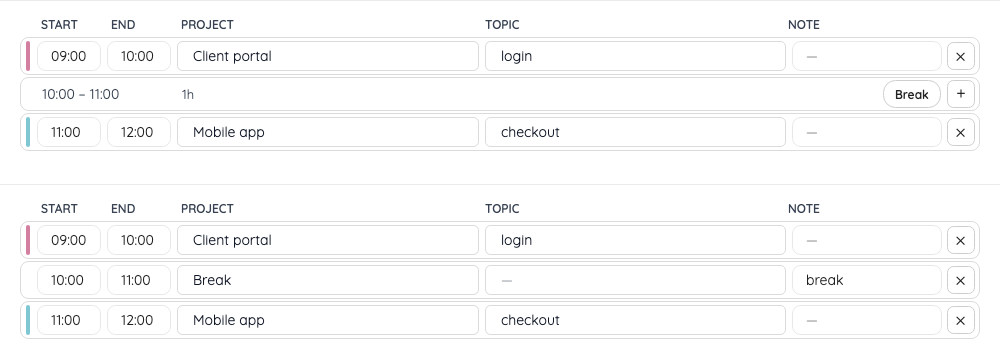
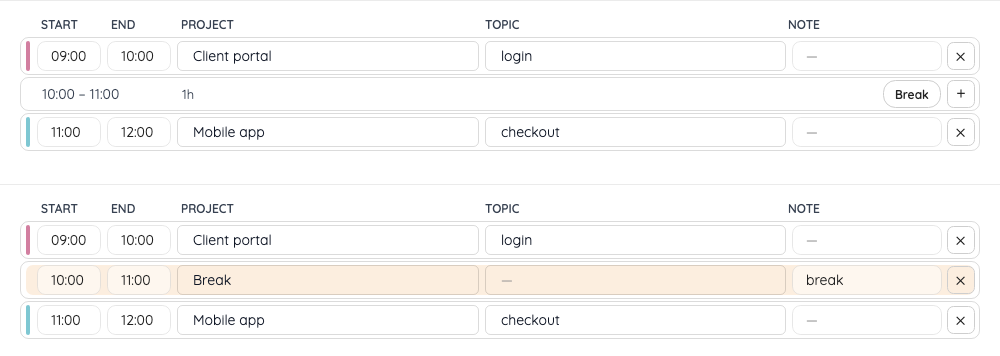
feat(day): a break is washed warm instead of striped
The stripe says which project a row belongs to; a pause has no project to
say, and a name in the first cell is read late. A break's row now carries
a warm wash behind its fields — around them, not over them — so the day's
pauses are found before its text is read. Every other row keeps the plain
surface it had.

The wash is a theme resource pair, because the peach that reads on white
glares on a dark surface: #FCEEDF in light, #2C2118 in dark. The exported
page, which has no dark mode, draws a break's bar in a deeper peach of
the same family (#f3c89a) instead of the grey it had.

Proved by 555 tests: one asserting a project row is striped and not
washed while a break row is washed and not striped, one asserting the
page's peach, and the day and break screenshots regenerated.

diff --git a/src/Worksheet.Export/ReportHtml.cs b/src/Worksheet.Export/ReportHtml.cs
@@ -27,8 +27,8 @@ public static class ReportHtml
 
     private const string NothingToDraw = """<p class="text-body-secondary mb-0">Nothing to draw.</p>""";
 
-    /// <summary>What a bar is filled with when the project has no colour of its own: a break.</summary>
-    private const string NoTint = "#ced4da";
+    /// <summary>What a bar is filled with when the row is a break: the warm peach, since a pause is not a project.</summary>
+    private const string BreakTint = "#f3c89a";
 
     /// <summary>The page, block by block in the order it is read; each block ends with its line end.</summary>
     public static string Of(RangeReport report, DateTimeOffset generatedAt)
@@ -163,10 +163,10 @@ public static class ReportHtml
     /// <summary>Rows as a page writes them: one per line, each with its own line end.</summary>
     private static string Rows(IEnumerable<string> rows) => string.Concat(rows.Select(row => $"{row}\n"));
 
-    /// <summary>A bar in the project's own pastel; a break gets the page's grey, having no colour of its own.</summary>
+    /// <summary>A bar in the project's own pastel; a break gets the warm peach, having no colour of its own.</summary>
     private static string BarRow(string[] cells, int minutes, int total, string? tint) =>
         $"""
-         <tr>{string.Concat(cells.Select(cell => $"<td>{Esc(cell)}</td>"))}<td><div class="progress" role="progressbar" aria-valuenow="{Esc(Shares.Percent(minutes, total))}" aria-valuemin="0" aria-valuemax="100" style="height:10px"><div class="progress-bar" style="width:{Shares.Width(minutes, total)};background:{tint ?? NoTint}"></div></div></td><td class="text-end text-nowrap" data-value="{minutes}">{Esc(Shares.Hours(minutes))}</td><td class="text-end text-nowrap" data-value="{minutes}">{Esc(Shares.Percent(minutes, total))}</td></tr>
+         <tr>{string.Concat(cells.Select(cell => $"<td>{Esc(cell)}</td>"))}<td><div class="progress" role="progressbar" aria-valuenow="{Esc(Shares.Percent(minutes, total))}" aria-valuemin="0" aria-valuemax="100" style="height:10px"><div class="progress-bar" style="width:{Shares.Width(minutes, total)};background:{tint ?? BreakTint}"></div></div></td><td class="text-end text-nowrap" data-value="{minutes}">{Esc(Shares.Hours(minutes))}</td><td class="text-end text-nowrap" data-value="{minutes}">{Esc(Shares.Percent(minutes, total))}</td></tr>
          """;
 
     private static string TimelineCard(RangeReport report) =>

diff --git a/tests/Worksheet.UiTests/DayTableTests.cs b/tests/Worksheet.UiTests/DayTableTests.cs
@@ -83,16 +83,22 @@ public sealed class DayTableTests : UiTestBase
     }
 
     [AvaloniaFact]
-    public void A_row_carries_its_projects_pastel_and_a_break_carries_none()
+    public void A_project_row_is_striped_in_its_pastel_and_a_break_row_is_washed_instead()
     {
         var rows = EntryRows(Table("Website 09:00 1h", "Break 10:00 30m"));
 
         Assert.NotNull(Stripe(rows[0]));
+        Assert.False(Wash(rows[0]).IsVisible);
+
         Assert.Null(Stripe(rows[1]));
+        Assert.True(Wash(rows[1]).IsVisible);
     }
 
     private static IBrush? Stripe(Border row) =>
         Descendants<Border>(row).Single(border => border.Classes.Contains("tint")).Background;
+
+    private static Border Wash(Border row) =>
+        Descendants<Border>(row).Single(border => border.Classes.Contains("break-wash"));
 
     [AvaloniaFact]
     public void A_hole_between_entries_is_visible_with_its_length()

diff --git a/src/Worksheet.Desktop/ViewModels/EntryRowViewModel.cs b/src/Worksheet.Desktop/ViewModels/EntryRowViewModel.cs
@@ -51,6 +51,10 @@ public sealed partial class EntryRowViewModel : ObservableObject, IDayRow
     [ObservableProperty]
     private IBrush? _tint;
 
+    /// <summary>True on a break: the one row that is not work, and is washed rather than striped.</summary>
+    [ObservableProperty]
+    private bool _isBreak;
+
     public EntryRowViewModel(
         Entry entry,
         IReadOnlyList<string> projects,
@@ -118,6 +122,7 @@ public sealed partial class EntryRowViewModel : ObservableObject, IDayRow
         RefreshTopics(entry.TopicId);
         Note = entry.Note ?? string.Empty;
         Tint = Tints.Of(ProjectText) is { } tint ? new SolidColorBrush(Color.Parse(tint)) : null;
+        IsBreak = Break.IsBreak(ProjectText);
 
         _loading = false;
     }

diff --git a/tests/Worksheet.Tests/ExportTests.cs b/tests/Worksheet.Tests/ExportTests.cs
@@ -220,7 +220,7 @@ public sealed class ExportTests
         var page = Html(Report(ExportPeriod.Day));
 
         Assert.Contains($"background:{Tints.Of("Website")}", page);
-        Assert.Contains("background:#ced4da", page);
+        Assert.Contains("background:#f3c89a", page);
     }
 
     [Fact]

diff --git a/README.md b/README.md
@@ -68,7 +68,8 @@ change, so undo takes it back.
 
 A row's left edge carries the tint of its project: a pastel picked from the name, so the same project
 is the same colour in every window, on every run, and on the exported page, where its bar is drawn in
-it too. A break has no tint — a pause is not a project.
+it too. A break carries no such tint — a pause is not a project — and its row is washed warm instead,
+so it reads as a pause before the name does.
 
 The project and topic cells take a name you type, not only one from the list. A name nobody has used
 yet is created when you leave the cell, so a block can be moved onto a new project without returning
